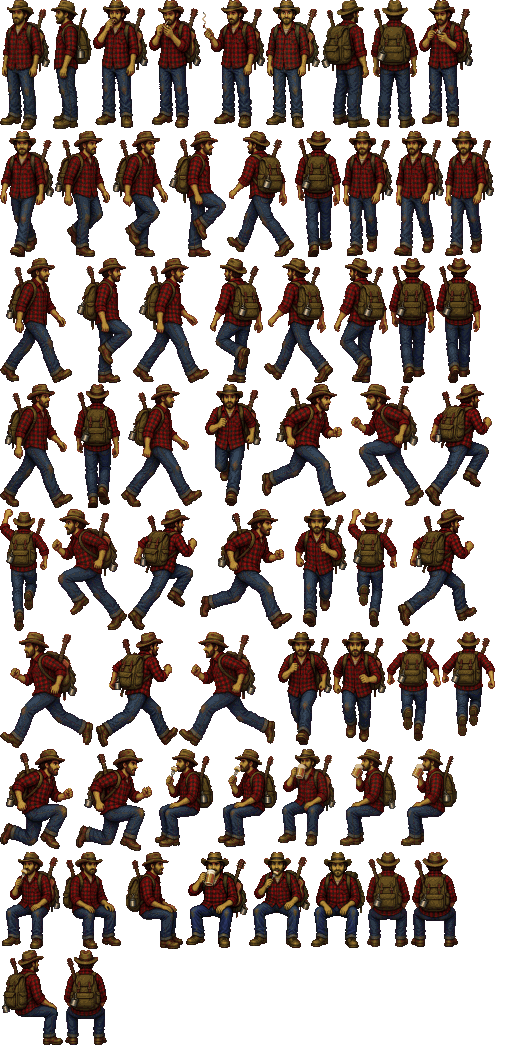
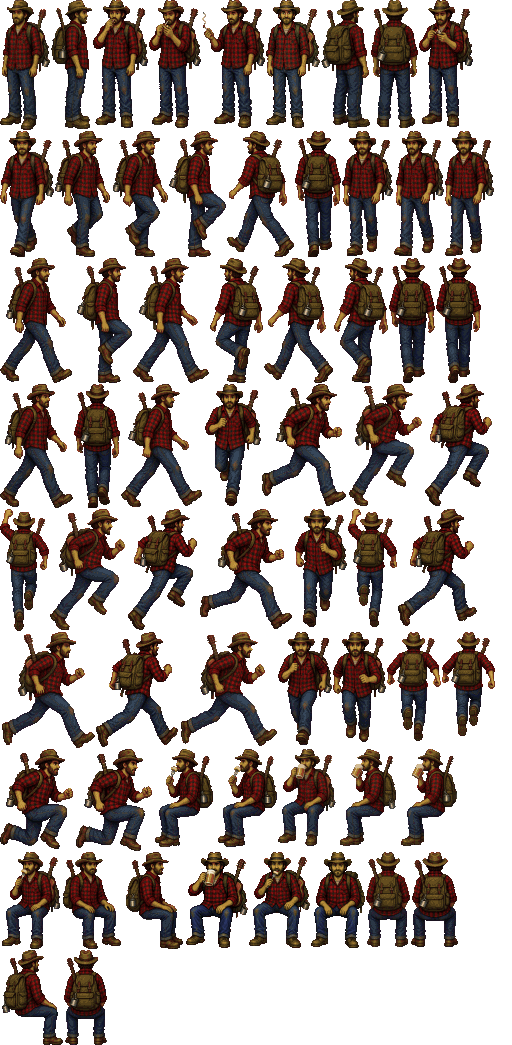
Smery spritu: Quiet Guy (stani z 3 stran, beh ze 2), tramp (stani a beh z boku) a opilec (pohled 3/4 zepredu, stani a chuze z boku) meli listy z Groka otocene doleva, z tech stran bezeli pozadu; zrcadleno primo v atlasu (tools/artgen/fix_facing.py, kotva nohou s nim), ostatni sady prosly kontrolou. 

diff --git a/tools/artgen/fix_facing.py b/tools/artgen/fix_facing.py
@@ -1,0 +1,65 @@
+#!/usr/bin/env python3
+"""Turn round the frames of a packed figure set that face the wrong way.
+
+Views 1-3 of godot/assets/textury/npc/sets/<fig>.png are drawn turned to the right of the
+picture (scripts/figures/doom_figure.gd: views 5-7 are those mirrored). A Grok sheet that
+came out facing left makes the person walk or run backwards from those sides (playtest
+25. 10.: "I saw the quiet guy running backwards"). The sources are not always kept, so
+this mends the packed atlas itself: each frame's rectangle mirrored in place, its anchor
+(the feet under the torso) with it, the jacket mask too where there is one.
+
+    python tools/artgen/fix_facing.py <fig> <anim>:<view>[:<frame>] ...
+    python tools/artgen/fix_facing.py host1 stand:1 stand:2 run:1 run:2
+
+View numbers are the json's (0 front .. 4 back); without a frame every frame of it.
+Run it once per mistake: a second run turns them back.
+"""
+import json
+import os
+import sys
+
+from PIL import Image
+
+HERE = os.path.dirname(os.path.abspath(__file__))
+SETS = os.path.join(HERE, "..", "..", "godot", "assets", "textury", "npc", "sets")
+
+
+def main():
+	if len(sys.argv) < 3:
+		print(__doc__)
+		sys.exit(1)
+	fig = sys.argv[1]
+	base = os.path.join(SETS, fig)
+	data = json.load(open(base + ".json", encoding="utf-8"))
+	atlas = Image.open(base + ".png").convert("RGBA")
+	mask_path = base + "_mask.png"
+	mask = Image.open(mask_path).convert("RGBA") if os.path.exists(mask_path) else None
+	rects = set()
+	for spec in sys.argv[2:]:
+		parts = spec.split(":")
+		anim, view = parts[0], int(parts[1])
+		frames = data["anims"][anim][view]
+		picks = [int(parts[2])] if len(parts) > 2 else range(len(frames))
+		for n in picks:
+			f = frames[n]
+			rects.add((int(f[0]), int(f[1]), int(f[2]), int(f[3])))
+			print("%s %s view %d frame %d turned round" % (fig, anim, view, n))
+	for x, y, w, h in rects:
+		for img in [atlas] + ([mask] if mask is not None else []):
+			region = img.crop((x, y, x + w, y + h)).transpose(Image.Transpose.FLIP_LEFT_RIGHT)
+			img.paste(region, (x, y))
+	# The anchor of every frame on a turned rectangle (a picture two views share, too).
+	for views in data["anims"].values():
+		for frames in views:
+			for f in frames:
+				if (int(f[0]), int(f[1]), int(f[2]), int(f[3])) in rects:
+					f[4] = round(float(f[2]) - float(f[4]), 2)
+	atlas.save(base + ".png")
+	if mask is not None:
+		mask.save(mask_path)
+	with open(base + ".json", "w", encoding="utf-8") as fh:
+		json.dump(data, fh, separators=(",", ":"))
+
+
+if __name__ == "__main__":
+	main()

diff --git a/TODO.md b/TODO.md
@@ -13,8 +13,8 @@
 - [x] R5  (38f6fc96) „odstranit psa v builderu“
 - [x] R6  (cbd11c28) „SectiTo98 - umožni ENTEREM odklikávat na další fotku a rovnou označ textové pole“ (Enter = next photo, focus the field)
 - [x] R7  „za dveřmi recepce je jiný interiér než za oknem? proč?“ (the reception's door vs window view mismatch)
-- [ ] R8  „nespamovat přes sebe zvuky (např řezání větve přes cestu)“ (one-shot sounds must not stack)
-- [ ] R9  „opravit směry spritů. viděl jsem quiet guye běžet pozadu“ (8-direction sprites: facing of the night's Silent/Quiet man and others)
+- [x] R8  „nespamovat přes sebe zvuky (např řezání větve přes cestu)“ (one-shot sounds must not stack)
+- [x] R9  „opravit směry spritů. viděl jsem quiet guye běžet pozadu“ (8-direction sprites: facing of the night's Silent/Quiet man and others)
 - [x] R10 „z dálky clippujou okna u chatek? clippuje přes ně dřevěná textura a pak není vidět dovnitř“
 - [x] R11 „klikbanka98 - OK okna na které mám klikat spawnuj always on top“
 - [ ] R12 „přidej možnost prohlédnout si klikem diplom na zdi (očíčko jak kurzor)“
